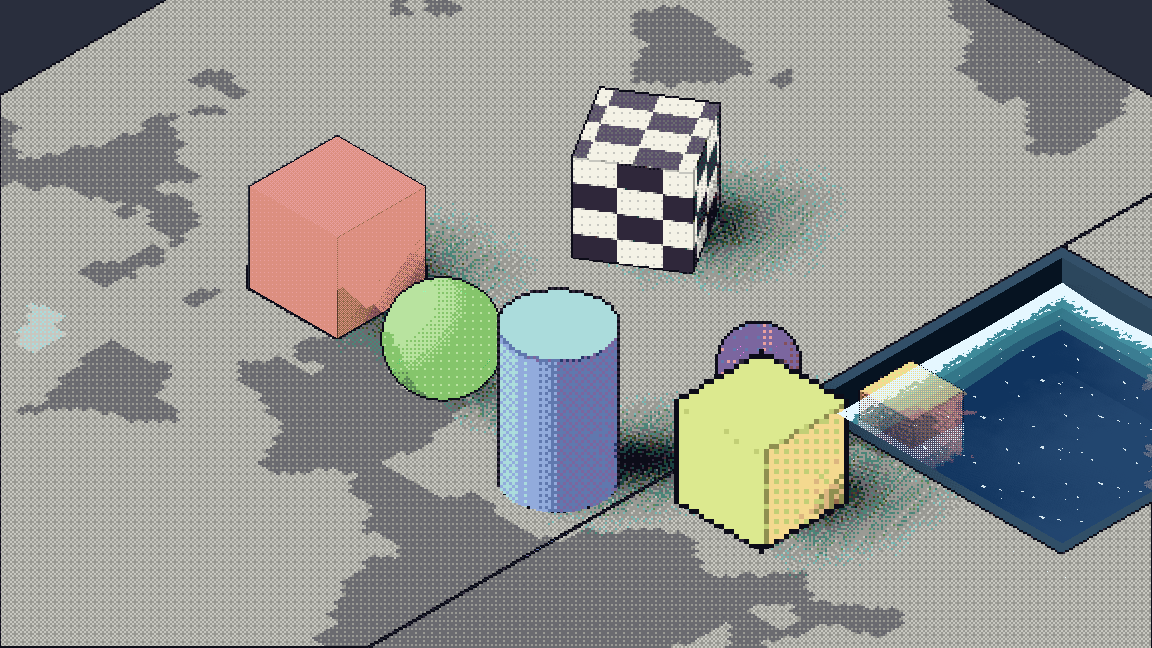
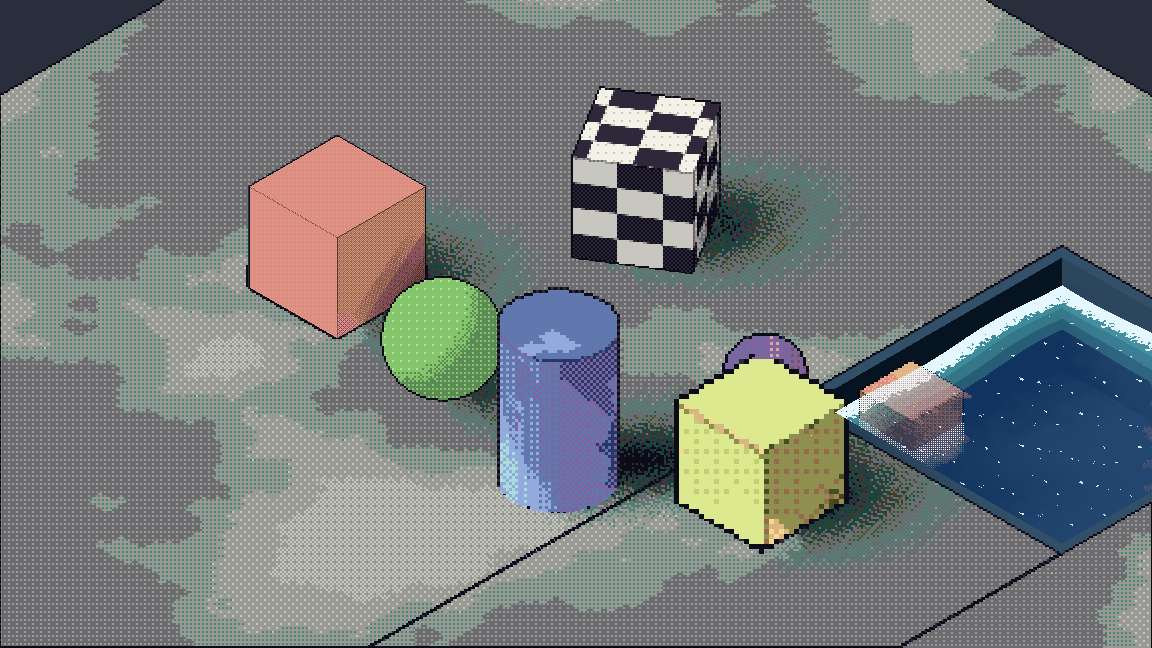
backup commit

diff --git a/addons/3dpixelart/README.md b/addons/3dpixelart/README.md
@@ -62,19 +62,25 @@ Drives the entire render pipeline for one camera.
 | **Color Grading** | |
 | `global_palette_lut` | Optional palette LUT (baked by `PixelPalette`) applied to all pixelized pixels after lighting. |
 | **Clouds** | |
-| `clouds_enabled` | Banded cloud shadows on pixelized materials (off by default). |
+| `clouds_enabled` | Cloud shadows on pixelized materials (off by default). |
 | `cloud_noise` | Coverage noise texture (sampled `filter_nearest`, scrolling). |
 | `cloud_sun` | `DirectionalLight3D` casting the cloud shadows/rays; its direction is pushed to materials every frame. |
 | `cloud_height` | Height of the imaginary cloud plane (default 10). |
-| `cloud_noise_scale` / `cloud_threshold` / `cloud_bands` | Noise zoom, coverage cutoff, and stepped banding of the noise (matches the toon ramp). |
+| `cloud_noise_scale` / `cloud_threshold` / `cloud_bands` | Noise zoom, coverage cutoff, and noise quantization for the god-ray gaps. |
 | `cloud_wind` | Wind direction × speed; scrolls the noise. |
 | `cloud_shadow_strength` | How much clouds attenuate the toon ramp (ambient untouched). |
+| `cloud_shadow_banding_enabled` | Quantize the shadow into discrete darkness levels (hard contour rings) vs a smooth penumbra (default on). |
+| `cloud_shadow_levels` | Darkness levels when banding (default 3; 1 = binary hard shadow). |
+| `cloud_shadow_softness` | Width of the penumbra below `cloud_threshold` the shadow ramps across (default 0.4). |
 | `god_rays_enabled` | Add god rays through the cloud gaps *before* pixelization, so the rays get macro-pixels too. Tune via `get_god_ray_pass()` (steps, intensity, decay, quantize bands, dust). |
 | **Debug** | |
 | `debug_view` | 0 = off, 1 = anchor map, 2 = metadata buffer, 3 = metadata depth. |
 
 Methods: `register_material(material)` / `unregister_material(material)`
 (called automatically by `PixelArtObject3D`),
+`register_cloud_material(material)` / `unregister_cloud_material(material)`
+(feeds ONLY the cloud-shadow uniforms to a non-pixelized material — the shader
+must implement the coverage itself under the same uniform names),
 `save_shared_textures_debug(color_path, depth_path)` (dumps the shared
 metadata textures as PNGs).
 
@@ -158,9 +164,13 @@ The pipeline's **Clouds** group adds two effects from the Pixel Perfect
 
 - **Cloud shadows**: each pixelized material projects its fragments onto an
   imaginary cloud plane along the sun direction and attenuates only the toon
-  ramp (ambient is untouched) with stepped, banded coverage. Per-material by
-  design — only materials using `pixel_art_object.gdshader` receive cloud
-  shadows (e.g. `StandardMaterial3D` props don't).
+  ramp (ambient is untouched). Coverage is the fraction of sun blocked:
+  `smoothstep(cloud_threshold - cloud_shadow_softness, cloud_threshold, n)`,
+  optionally quantized into `cloud_shadow_levels` discrete darkness steps
+  (`cloud_shadow_banding_enabled`) — hard contour rings vs a smooth penumbra.
+  Pixelized materials receive it automatically; any other shader can join in
+  via `register_cloud_material` if it implements the same coverage under the
+  same uniform names (see `pixel_art_object.gdshader`).
 - **God rays**: a `POST_SKY` compute pass (`PixelArtGodRayPass`) marches from
   the camera toward each pixel's reconstructed world position, accumulating
   the gaps in the cloud coverage (endpoint-lerp optimization: both endpoints

diff --git a/addons/3dpixelart/AGENTS.md b/addons/3dpixelart/AGENTS.md
@@ -69,7 +69,11 @@ read them before touching the render pipeline. The demo scene is
 
 - RenderingDevice is not main-thread-safe: create/free RD textures via
   `RenderingServer.call_on_render_thread(...)` (see
-  `PixelArtPipeline3D._create_textures_rt`).
+  `PixelArtPipeline3D._create_textures_rt`). On viewport resize the shared
+  RIDs in `PixelArtSharedBuffers` are invalidated BEFORE the old textures are
+  freed, so compositor passes early-return instead of building uniform sets
+  with just-freed RIDs ("Texture (binding: N) is not a valid texture" spam) —
+  keep that ordering.
 - **The god-ray pass must precede the macro-pixel pass in the compositor
   effects array** — same-callback-type (POST_SKY) effects run in array order,
   and the rays must be in the color layer before `copy_color` so they get
@@ -80,7 +84,20 @@ read them before touching the render pipeline. The demo scene is
 - **The pipeline pushes cloud uniforms to registered materials** (on export
   change and on `register_material`) and pushes `cloud_sun_dir` to materials
   + the god-ray pass every frame in `_process` when clouds are enabled. Keep
-  these pushes in sync when adding cloud uniforms.
+  these pushes in sync when adding cloud uniforms. Non-pixelized materials
+  (terrain, water) register via `register_cloud_material` (the
+  `_cloud_materials` list) to receive ONLY the cloud uniforms — their shaders
+  must implement the coverage themselves under the same uniform names
+  (`mst_terrain.gdshaderinc` and the game's `water.gdshader` are the
+  reference implementations).
+- **Cloud-shadow coverage is the fraction of sun blocked** (0 = clear, 1 =
+  overcast): `smoothstep(threshold - softness, threshold, n)` over the raw
+  noise, quantized into `cloud_shadow_levels` when
+  `cloud_shadow_banding_enabled` (hard contour rings vs smooth penumbra).
+  Materials darken by `1 - coverage * cloud_shadow_strength`. (The pre-fix
+  code did `mix(1.0, coverage, strength)` on a binary step — that darkened
+  the cloud GAPS, inverted from the god-ray/sky convention.) `cloud_bands`
+  now feeds only the sky sheet / god-ray gap quantization.
 - **Editing a `.glsl` compute shader requires a reimport** or stale SPIR-V is
   used. `.gdshader` changes are picked up on game start.
 - Requires Forward+ or Mobile; MSAA off; `scaling_3d_scale` 1.0.
@@ -105,7 +122,14 @@ packed metadata buffer.
 
 ## Known loose ends
 
-- Benign "Texture (binding: 5) not a valid texture" errors on quit.
+- `PixelArtPipeline3D` syncs the metadata camera in `_process` at default
+  process priority 0 — if something updates the main camera later in the frame
+  (e.g. a camera host at process_priority 300), the metadata render runs one
+  frame behind and moving objects dissolve into their anchor-dot grid. Raise
+  the pipeline node's `process_priority` above whatever drives the camera.
 - Transparent pixelized objects composite against un-pixelated depth
-  (pixelated depth write-back not ported).
+  (pixelated depth write-back not ported). Corollary: pixelized objects write
+  depth only at anchor fragments, so ANY transparent surface between the
+  camera and a pixelized object draws over it (the object "dissolves" into
+  anchor dots) — keep such surfaces opaque/alpha-scissor.
 - `save_shared_textures_debug` depth row-length guard is approximate.
